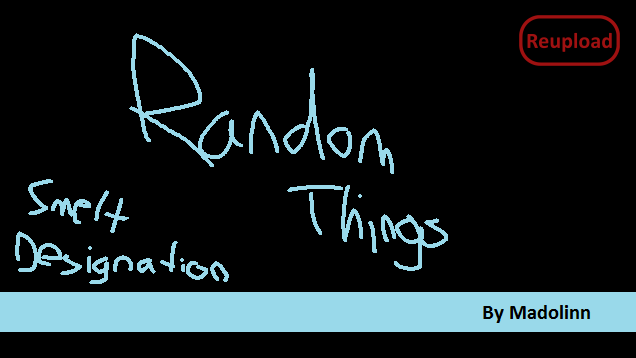
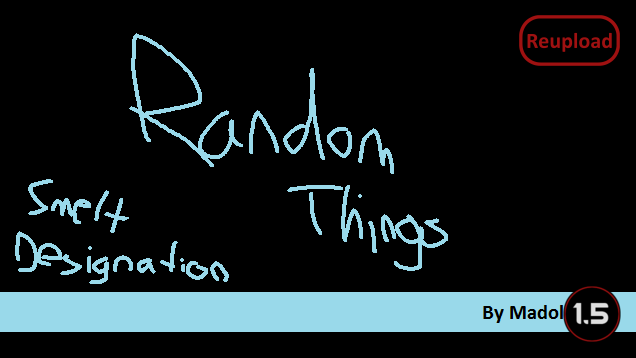
Mod updated for 1.5 and passed autotests

Changed region(s): [[0.8664, 0.7989, 0.9858, 0.9525]]

diff --git a/README.md b/README.md
@@ -6,6 +6,7 @@ Update of Madolinns mod
 https://steamcommunity.com/sharedfiles/filedetails/?id=1241579445
 
 - Fixed the designator, smeltable go in the smelter, burnable go in the crematorium
+- Added designator on items for easier smelting, added Harmony as requirement.
 
 ![Image](https://i.imgur.com/pufA0kM.png)
 
@@ -43,12 +44,13 @@ Items moved from hauling have designations removed. This is a vanilla feature. I
 
 -  See if the the error persists if you just have this mod and its requirements active.
 -  If not, try adding your other mods until it happens again.
--  Post your error-log using https://steamcommunity.com/workshop/filedetails/?id=818773962]HugsLib and command Ctrl+F12
+-  Post your error-log using https://steamcommunity.com/workshop/filedetails/?id=818773962]HugsLib or the standalone https://steamcommunity.com/sharedfiles/filedetails/?id=2873415404]Uploader and command Ctrl+F12
 -  For best support, please use the Discord-channel for error-reporting.
 -  Do not report errors by making a discussion-thread, I get no notification of that.
 -  If you have the solution for a problem, please post it to the GitHub repository.
+-  Use https://github.com/RimSort/RimSort/releases/latest]RimSort to sort your mods
 
 
 
+https://steamcommunity.com/sharedfiles/filedetails/changelog/2591787798]![Image](https://img.shields.io/github/v/release/emipa606/RandomThingsSmeltDesignation?label=latest%20version&style=plastic&color=9f1111&labelColor=black)
 
-https://steamcommunity.com/sharedfiles/filedetails/changelog/2591787798]Last updated 2022-12-09
